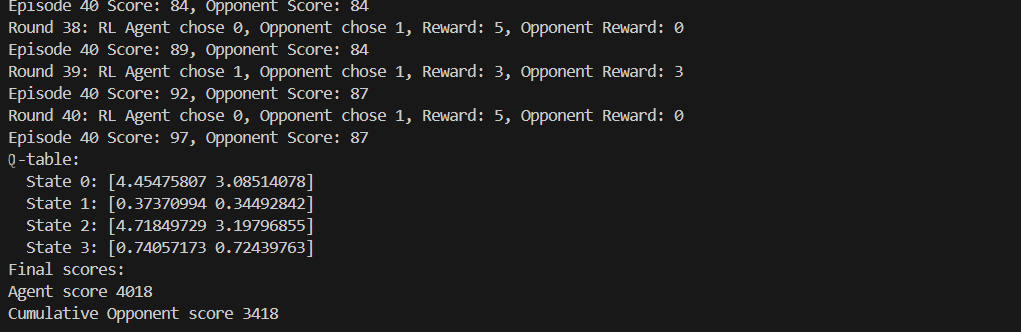
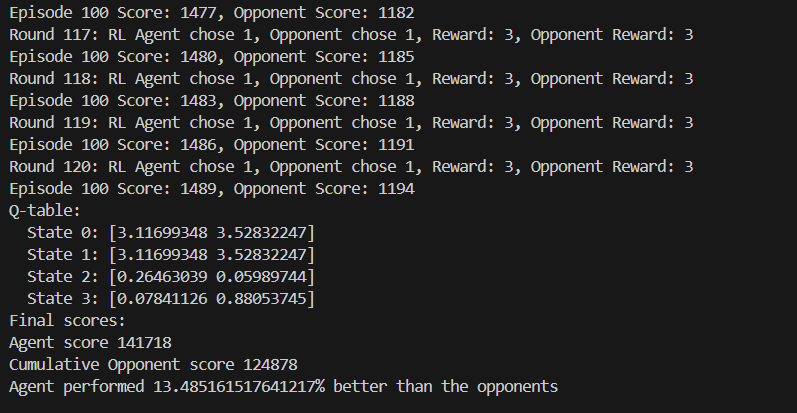
readme

Changed region(s): [[0.0, 0.0, 0.8733, 0.9639]]

diff --git a/README.md b/README.md
@@ -26,7 +26,8 @@ The RL agent uses the Q-learning algorithm to learn and adapt its strategy based
 Once you've ensured the required packages are installed in your environment, go ahead and run the tournament.py file to find a line by line log of each agent's performance in each round of each epoch followed by a final score. The agent does win in most cases as expected.
 
 # Results
-Running the environment for a considerable number of episodes, I could clearly see that the agent performed vastly better than the cumulative performance of all the dumb agents. I am still in the process of finding the best way to extract the best strategy(something that can be expressed in a conversation for example) from the Q-table. I will update the code as soon as I land on something that works well. So far the agent has been able to learn the best strategy and has been able to outperform the other agents in most cases.
+Running the environment for a considerable number of episodes, I could clearly see that the agent performed vastly better than the cumulative performance of all the dumb agents. I am still in the process of finding the best way to extract the best strategy(something that can be expressed in a conversation for example) from the Q-table. I will update the code as soon as I land on something that works well. So far the agent has been able to learn the best strategy and has been able to outperform the other agents in most cases. For each run, the agent was able to achieve a cumulative of 10-15% more than the other agents.
+
 ![Results](./results.png)
 
 # Future Work
